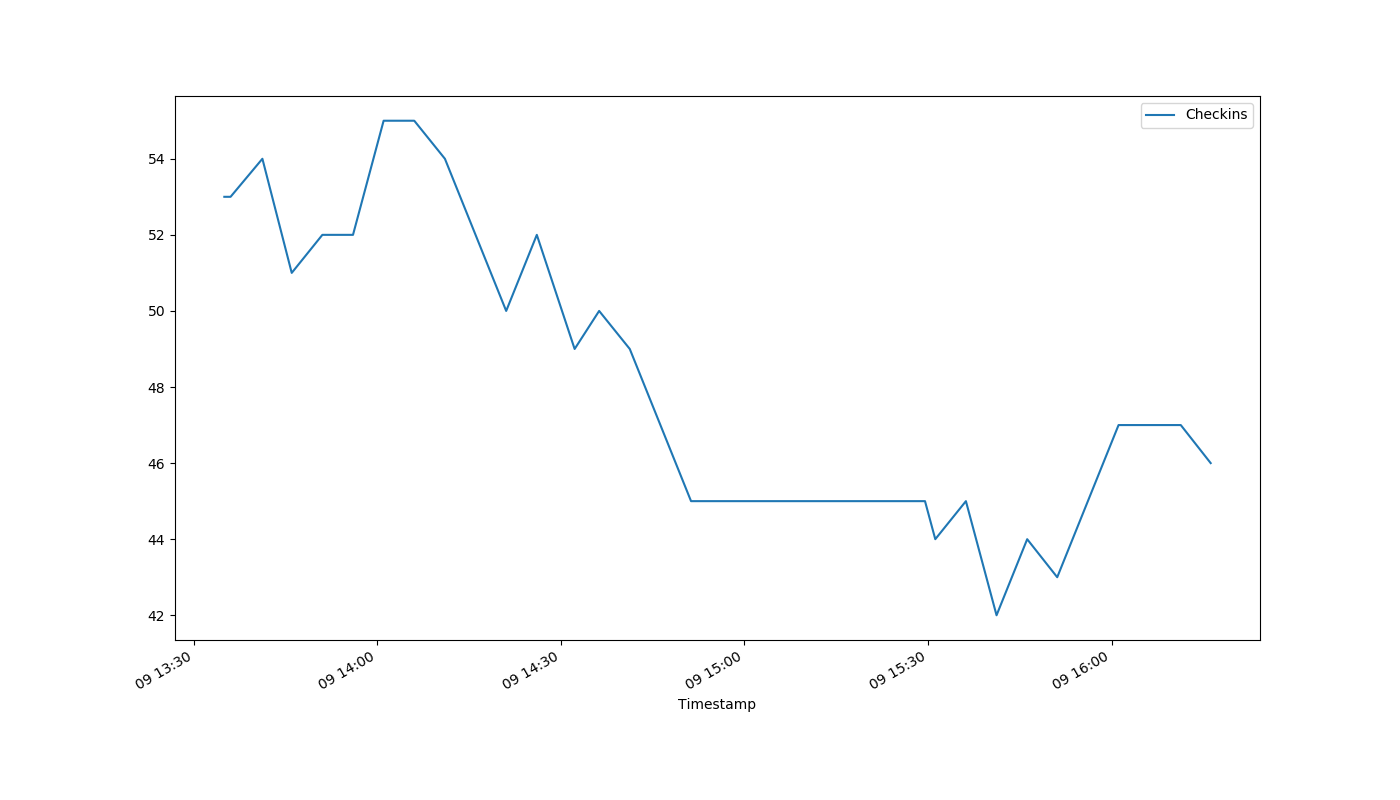
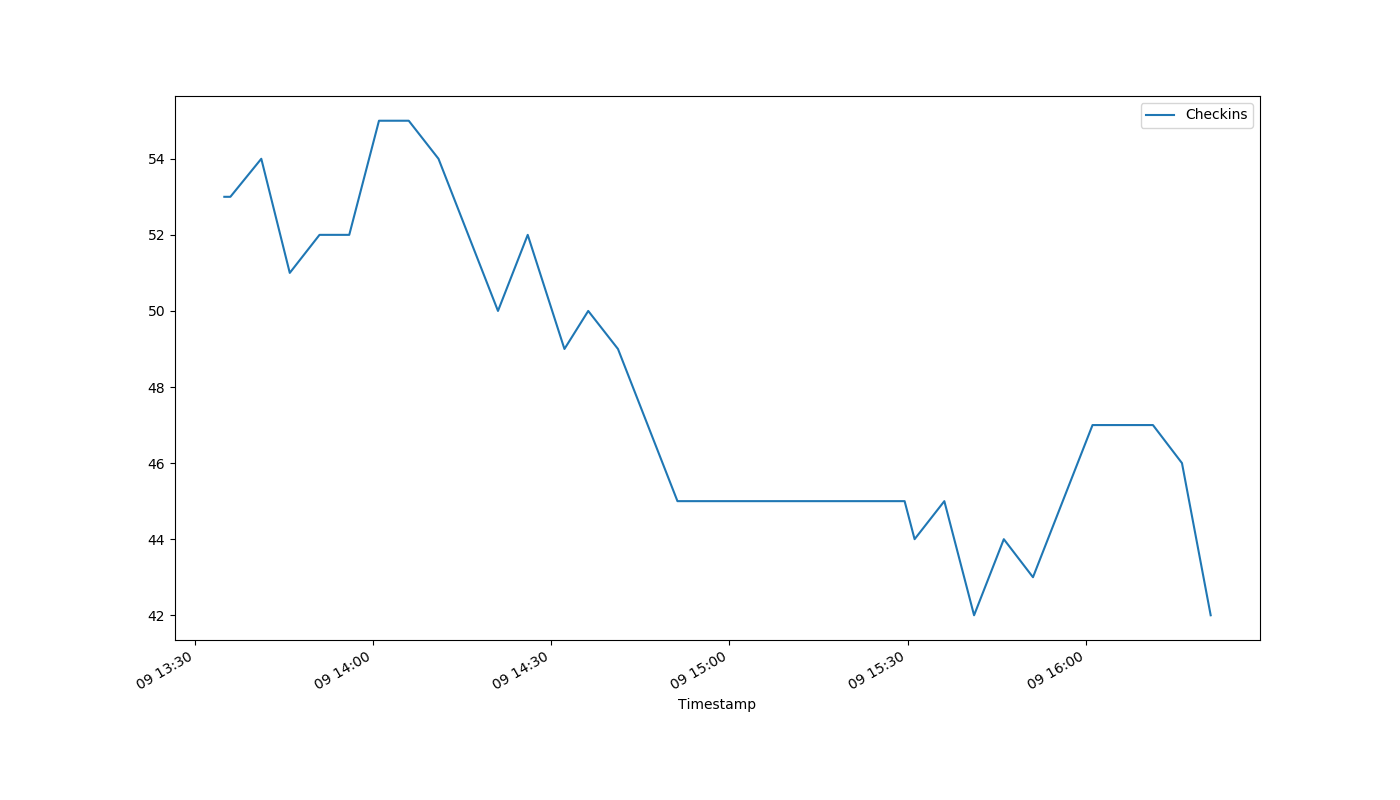
auto-Aug-09-16:22:53

diff --git a/index.html b/index.html
@@ -1,1 +1,1 @@
-<!DOCTYPE html><html><head><meta http-equiv="refresh" content="30"><link rel='stylesheet' href='holmcurrent.css'></head><body><p id='count'>46</p><div id='graph-wrap'><img id='graph' src='holmgraph-Aug-09.png'></div><p id='updated'>Last updated 16:17:15 / 16:16:11</p></body></html>
+<!DOCTYPE html><html><head><meta http-equiv="refresh" content="30"><link rel='stylesheet' href='holmcurrent.css'></head><body><p id='count'>42</p><div id='graph-wrap'><img id='graph' src='holmgraph-Aug-09.png'></div><p id='updated'>Last updated 16:21:15 / 16:21:01</p></body></html>
